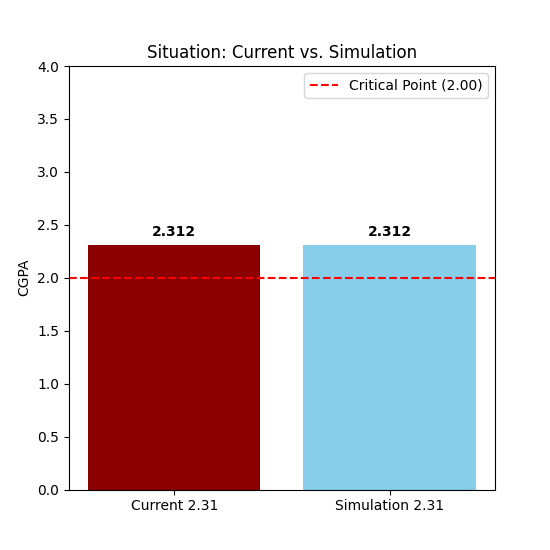
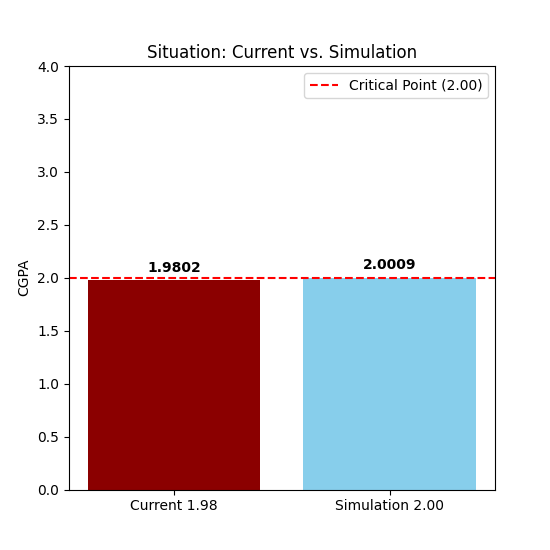
Final: Added visual charts to README for all phases

diff --git a/StudentPerformancePredictor.py b/StudentPerformancePredictor.py
@@ -6,7 +6,7 @@ import matplotlib
 matplotlib.use('Agg')
 
 
-targetFile = "realistic_students.csv"  # "Student1.csv" "synthetic_Students.csv" veya olarak da değiştirilebilir
+targetFile = "Student1.csv"  # "Student1.csv" "synthetic_Students.csv" veya olarak da değiştirilebilir
 df = pd.read_csv(targetFile, encoding='latin1')
 
 gradeDict = {'A': 4.0, 'A-': 3.7, 'B+': 3.3, 'B': 3.0, 'B-': 2.7,
@@ -66,7 +66,7 @@ dfCollumns["Cr"] = pd.to_numeric(dfCollumns["Cr"])
 dfCollumns["Ch"] = dfCollumns["Cr"] * dfCollumns["Puan"]
 dfSimule = dfCollumns.copy()
 target_course = 'CMSE423'
-new_grade_letter = 'D'
+new_grade_letter = 'D+'
 if target_course in dfSimule['Crs.Code'].values:
     dfSimule.loc[dfSimule['Crs.Code'] == target_course, ' Summary'] = f"{target_course} {new_grade_letter}"
     dfSimule.loc[dfSimule['Crs.Code'] == target_course, 'Puan'] = gradeDict[new_grade_letter]
@@ -93,4 +93,6 @@ plt.title('Situation: Current vs. Simulation')
 plt.ylabel('CGPA')
 plt.legend()
 plt.savefig('analysisGPA.png')
-print("Graph 'analysisGPA.png' saved with detailed labels.")
+print("Graph 'analysisGPA.png' saved with detailed labels."),
+
+print(dfCollumns)
